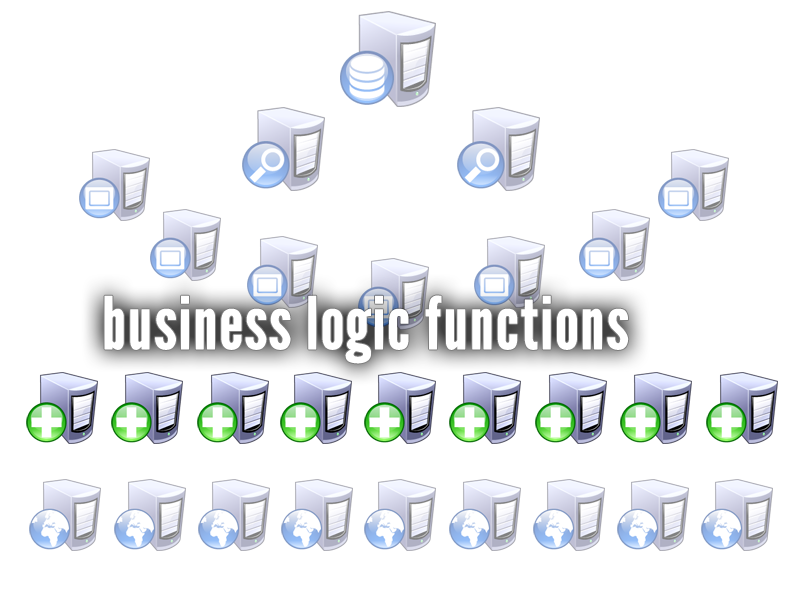
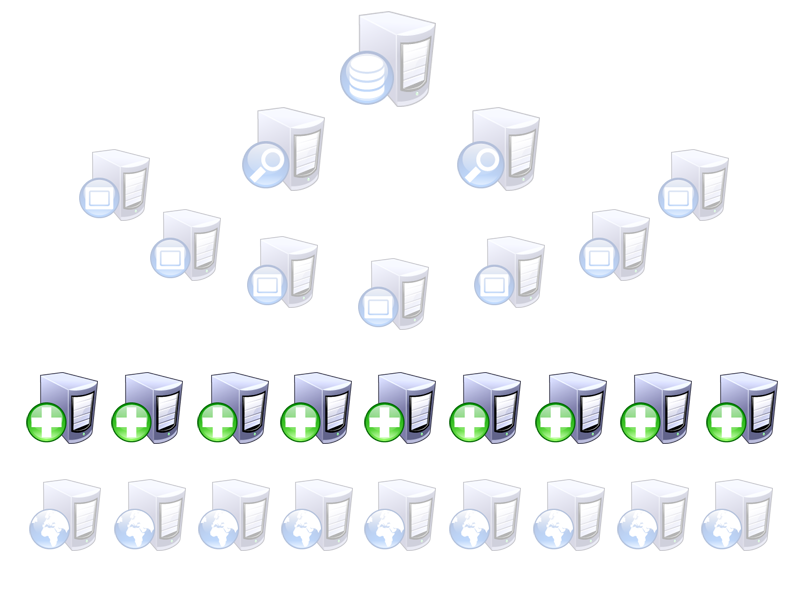
an inch more

diff --git a/css/theme/jeturcotte.css b/css/theme/jeturcotte.css
@@ -1,0 +1,142 @@
+@import url(https://fonts.googleapis.com/css?family=Lato:400,700,400italic,700italic);
+/**
+ * Default theme for reveal.js.
+ *
+ * Copyright (C) 2011-2012 Hakim El Hattab, http://hakim.se
+ */
+@font-face {
+  font-family: 'League Gothic';
+  src: url("../../lib/font/league_gothic-webfont.eot");
+  src: url("../../lib/font/league_gothic-webfont.eot?#iefix") format("embedded-opentype"), url("../../lib/font/league_gothic-webfont.woff") format("woff"), url("../../lib/font/league_gothic-webfont.ttf") format("truetype"), url("../../lib/font/league_gothic-webfont.svg#LeagueGothicRegular") format("svg");
+  font-weight: normal;
+  font-style: normal; }
+
+/*********************************************
+ * GLOBAL STYLES
+ *********************************************/
+body {
+  background: #1c1e20;
+  background: -moz-radial-gradient(center, circle cover, #555a5f 0%, #1c1e20 100%);
+  background: -webkit-gradient(radial, center center, 0px, center center, 100%, color-stop(0%, #555a5f), color-stop(100%, #1c1e20));
+  background: -webkit-radial-gradient(center, circle cover, #555a5f 0%, #1c1e20 100%);
+  background: -o-radial-gradient(center, circle cover, #555a5f 0%, #1c1e20 100%);
+  background: -ms-radial-gradient(center, circle cover, #555a5f 0%, #1c1e20 100%);
+  background: radial-gradient(center, circle cover, #555a5f 0%, #1c1e20 100%);
+  background-color: #2b2b2b; }
+
+.reveal {
+  font-family: "Lato", sans-serif;
+  font-size: 36px;
+  font-weight: normal;
+  letter-spacing: -0.02em;
+  color: #eeeeee; }
+
+::selection {
+  color: white;
+  background: #ff5e99;
+  text-shadow: none; }
+
+/*********************************************
+ * HEADERS
+ *********************************************/
+.reveal h1,
+.reveal h2,
+.reveal h3,
+.reveal h4,
+.reveal h5,
+.reveal h6 {
+  margin: 0 0 20px 0;
+  color: #eeeeee;
+  font-family: "League Gothic", Impact, sans-serif;
+  line-height: 0.9em;
+  letter-spacing: 0.02em;
+  text-transform: uppercase;
+  text-shadow: 0px 0px 6px rgba(0, 0, 0, 0.2); }
+
+.reveal h1 {
+  text-shadow: 0 1px 0 #cccccc, 0 2px 0 #c9c9c9, 0 3px 0 #bbbbbb, 0 4px 0 #b9b9b9, 0 5px 0 #aaaaaa, 0 6px 1px rgba(0, 0, 0, 0.1), 0 0 5px rgba(0, 0, 0, 0.1), 0 1px 3px rgba(0, 0, 0, 0.3), 0 3px 5px rgba(0, 0, 0, 0.2), 0 5px 10px rgba(0, 0, 0, 0.25), 0 20px 20px rgba(0, 0, 0, 0.15); }
+
+/*********************************************
+ * LINKS
+ *********************************************/
+.reveal a:not(.image) {
+  color: #13daec;
+  text-decoration: none;
+  -webkit-transition: color .15s ease;
+  -moz-transition: color .15s ease;
+  -ms-transition: color .15s ease;
+  -o-transition: color .15s ease;
+  transition: color .15s ease; }
+
+.reveal a:not(.image):hover {
+  color: #71e9f4;
+  text-shadow: none;
+  border: none; }
+
+.reveal .roll span:after {
+  color: #fff;
+  background: #0d99a5; }
+
+/*********************************************
+ * IMAGES
+ *********************************************/
+.reveal section img {
+  margin: 15px 0px;
+  -webkit-transition: all .2s linear;
+  -moz-transition: all .2s linear;
+  -ms-transition: all .2s linear;
+  -o-transition: all .2s linear;
+  transition: all .2s linear; }
+
+.reveal a:hover img { }
+
+/*********************************************
+ * NAVIGATION CONTROLS
+ *********************************************/
+.reveal .controls div.navigate-left,
+.reveal .controls div.navigate-left.enabled {
+  border-right-color: #13daec; }
+
+.reveal .controls div.navigate-right,
+.reveal .controls div.navigate-right.enabled {
+  border-left-color: #13daec; }
+
+.reveal .controls div.navigate-up,
+.reveal .controls div.navigate-up.enabled {
+  border-bottom-color: #13daec; }
+
+.reveal .controls div.navigate-down,
+.reveal .controls div.navigate-down.enabled {
+  border-top-color: #13daec; }
+
+.reveal .controls div.navigate-left.enabled:hover {
+  border-right-color: #71e9f4; }
+
+.reveal .controls div.navigate-right.enabled:hover {
+  border-left-color: #71e9f4; }
+
+.reveal .controls div.navigate-up.enabled:hover {
+  border-bottom-color: #71e9f4; }
+
+.reveal .controls div.navigate-down.enabled:hover {
+  border-top-color: #71e9f4; }
+
+/*********************************************
+ * PROGRESS BAR
+ *********************************************/
+.reveal .progress {
+  background: rgba(0, 0, 0, 0.2); }
+
+.reveal .progress span {
+  background: #13daec;
+  -webkit-transition: width 800ms cubic-bezier(0.26, 0.86, 0.44, 0.985);
+  -moz-transition: width 800ms cubic-bezier(0.26, 0.86, 0.44, 0.985);
+  -ms-transition: width 800ms cubic-bezier(0.26, 0.86, 0.44, 0.985);
+  -o-transition: width 800ms cubic-bezier(0.26, 0.86, 0.44, 0.985);
+  transition: width 800ms cubic-bezier(0.26, 0.86, 0.44, 0.985); }
+
+/*********************************************
+ * SLIDE NUMBER
+ *********************************************/
+.reveal .slide-number {
+  color: #13daec; }

diff --git a/index.html b/index.html
@@ -15,7 +15,7 @@
 		<meta name="viewport" content="width=device-width, initial-scale=1.0, maximum-scale=1.0, user-scalable=no">
 
 		<link rel="stylesheet" href="css/reveal.min.css">
-		<link rel="stylesheet" href="css/theme/default.css" id="theme">
+		<link rel="stylesheet" href="css/theme/jeturcotte.css" id="theme">
 
 		<!-- For syntax highlighting -->
 		<link rel="stylesheet" href="lib/css/zenburn.css">
@@ -97,16 +97,57 @@
 					<section>
 						<h2>First, where testing will happen...</h2>
 					</section>
+					<section data-background='img/slide_environment_intro_1.png'>
+						<h3><br/><br/><br/>your web service environs</h3>
+					</section>
 					<section>
-						<img src="./img/slide_environment_intro_1.png" />
+						<h2>Which likely will consist of...</h2>
+					</section>
+					<section data-background='img/slide_environment_intro_6_db.png'>
+						<h3><br/><br/><br/>the databases</h3>
+					</section>
+					<section data-background='img/slide_environment_intro_5_dbi.png'>
+						<h3><br/><br/><br/>dbi frameworks</h3>
+					</section>
+					<section data-background='img/slide_environment_intro_4_models.png'>
+						<h3><br/><br/><br/>data models</h3>
+					</section>
+					<section data-background='img/slide_environment_intro_3_logic.png'>
+						<h3><br/><br/><br/>business logic functions</h3>
+					</section>
+					<section data-background='img/slide_environment_intro_2_views.png'>
+						<h3><br/><br/><br/>public facing apis, apps, and pages</h3>
+					</section>
+					<section>
+						<h3>If it doesn't look something like this...</h3>
+						<h2 class='fragment' style='color:#FDA'>You probably need to test more</h2>
+					</section>
+					<section>
+						<h3>So what methods might try to do this?</h3>
 					</section>
 				</section>
 				
 				<section>
-					<h2>How should your test your code?</h2>
-					<p></p>
-
-					<aside class="notes"></aside>
+					<section>
+						<h3>You could do what we do (where I work)</h3>
+						<h2 class='fragment' style='color:#FDA'>Trial and Error AD HOC<super>*</super></h2>
+						<p class='fragment'><BR><super>*</super>not recommended</p>
+						<p class='fragment'>No, really... <span style='color:#FDA'>I'm stuck doing it right now</span> as I desperately try to make the time to finish writing this presentation</p>
+					</section>
+					<section data-background='img/slide_adhoc_1.png'>
+						<h3><br/><br/><br/>suddenly /your/account/details/ blows up...</h3>
+					</section>
+					<section data-background='img/slide_adhoc_2.png'>
+						<h5><br/><br/>shit<br/><br/><br/><br/><br/><br/><br/><br/><br/><br/><br/><br/></h5>
+						<p class='fragment'>At least, this is what the person who reported it thinks is happening</p>
+					</section>
+					<section data-background='img/slide_environment_intro_4_models.png'>
+						<h3><br/><br/><br/>data models</h3>
+					</section>
+					<section data-background='img/slide_environment_intro_3_logic.png'>
+						<h3><br/><br/><br/>business logic functions</h3>
+					</section>
+					
 				</section>
 
 				<section>
